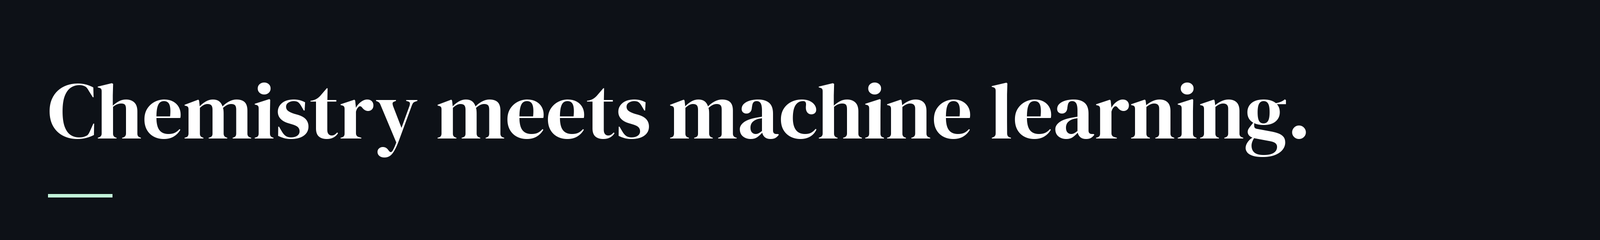
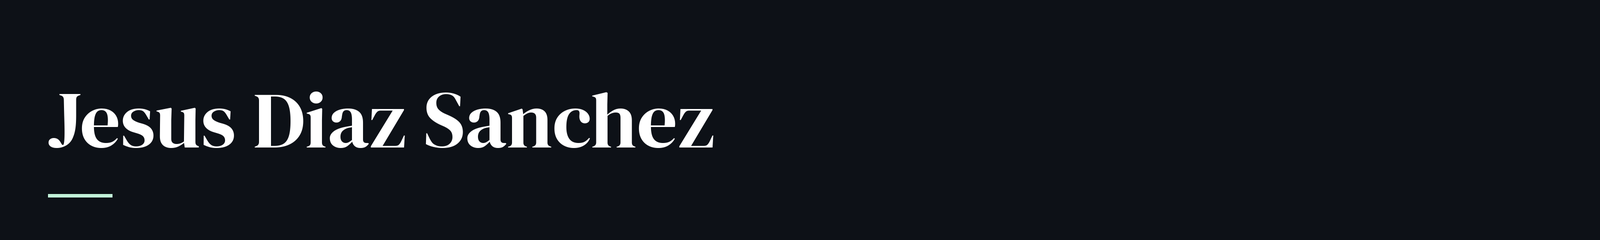
Use single-line name header and site publications link

Changed region(s): [[0.0312, 0.35, 0.8438, 0.6708]]

diff --git a/scripts/render_header.py b/scripts/render_header.py
@@ -11,7 +11,7 @@ from PIL import Image, ImageDraw, ImageFont
 
 ROOT = Path(__file__).resolve().parents[1]
 FONT = ROOT / 'assets/fonts/DMSerifDisplay-Regular.ttf'
-TEXT = 'Chemistry meets machine learning.'
+TEXT = 'Jesus Diaz Sanchez'
 SIZE = (1600, 240)
 
 

diff --git a/README.md b/README.md
@@ -1,11 +1,9 @@
-# Jesus Diaz Sanchez
-
 <picture>
-  <source media="(prefers-color-scheme: dark)" srcset="assets/header-dark.png">
-  <source media="(prefers-color-scheme: light)" srcset="assets/header-light.png">
-  <img src="assets/header-light.png" alt="Chemistry meets machine learning." width="800">
+  <source media="(prefers-color-scheme: dark)" srcset="https://raw.githubusercontent.com/jdsanc/jdsanc/main/assets/header-dark.png">
+  <source media="(prefers-color-scheme: light)" srcset="https://raw.githubusercontent.com/jdsanc/jdsanc/main/assets/header-light.png">
+  <img src="https://raw.githubusercontent.com/jdsanc/jdsanc/main/assets/header-light.png" alt="Jesus Diaz Sanchez" width="800">
 </picture>
 
 I’m a PhD researcher at MIT, advised by [Rafael Gómez-Bombarelli](https://gomezbombarelli.mit.edu/). I develop machine learning methods for chemistry and materials science, with work in representation learning, AI co-scientists, and VLM/LLM post-training.
 
-[Website](https://jdsanc.github.io/) · [Publications](https://scholar.google.com/citations?user=sTrk6g4AAAAJ&hl=en) · [Learning Matter Lab](https://gomezbombarelli.mit.edu/) · [Email](mailto:jdsan@mit.edu)
+[Website](https://jdsanc.github.io/) · [Publications](https://jdsanc.github.io/publications/) · [Learning Matter Lab](https://gomezbombarelli.mit.edu/) · [Email](mailto:jdsan@mit.edu)

diff --git a/assets/README.md b/assets/README.md
@@ -1,5 +1,5 @@
 The header uses DM Serif Display Regular, distributed under the SIL Open Font License in `fonts/OFL.txt`. It is rasterized as a 1600 × 240 PNG and displayed at up to 800 × 120, with a responsive width and meaningful alt text in the profile README. Ordinary text remains native GitHub Markdown for accessibility and small screens.
 
-Light: white surface, #141414 ink, #136F64 teal detail. Dark: GitHub's #0D1117 surface, white ink, #C2F3D9 mint detail. The text and layout match across both modes. There are no remote images or runtime font dependencies.
+Light: white surface, #141414 ink, #136F64 teal detail. Dark: GitHub's #0D1117 surface, white ink, #C2F3D9 mint detail. The text and layout match across both modes. The README uses absolute raw.githubusercontent.com URLs for these same repository assets, avoiding relative URL rewriting in the profile Overview. There are no third-party images or runtime font dependencies.
 
 Rebuild both assets with `python scripts/render_header.py` after installing Pillow. The header is an introductory graphic, not a scientific figure.
